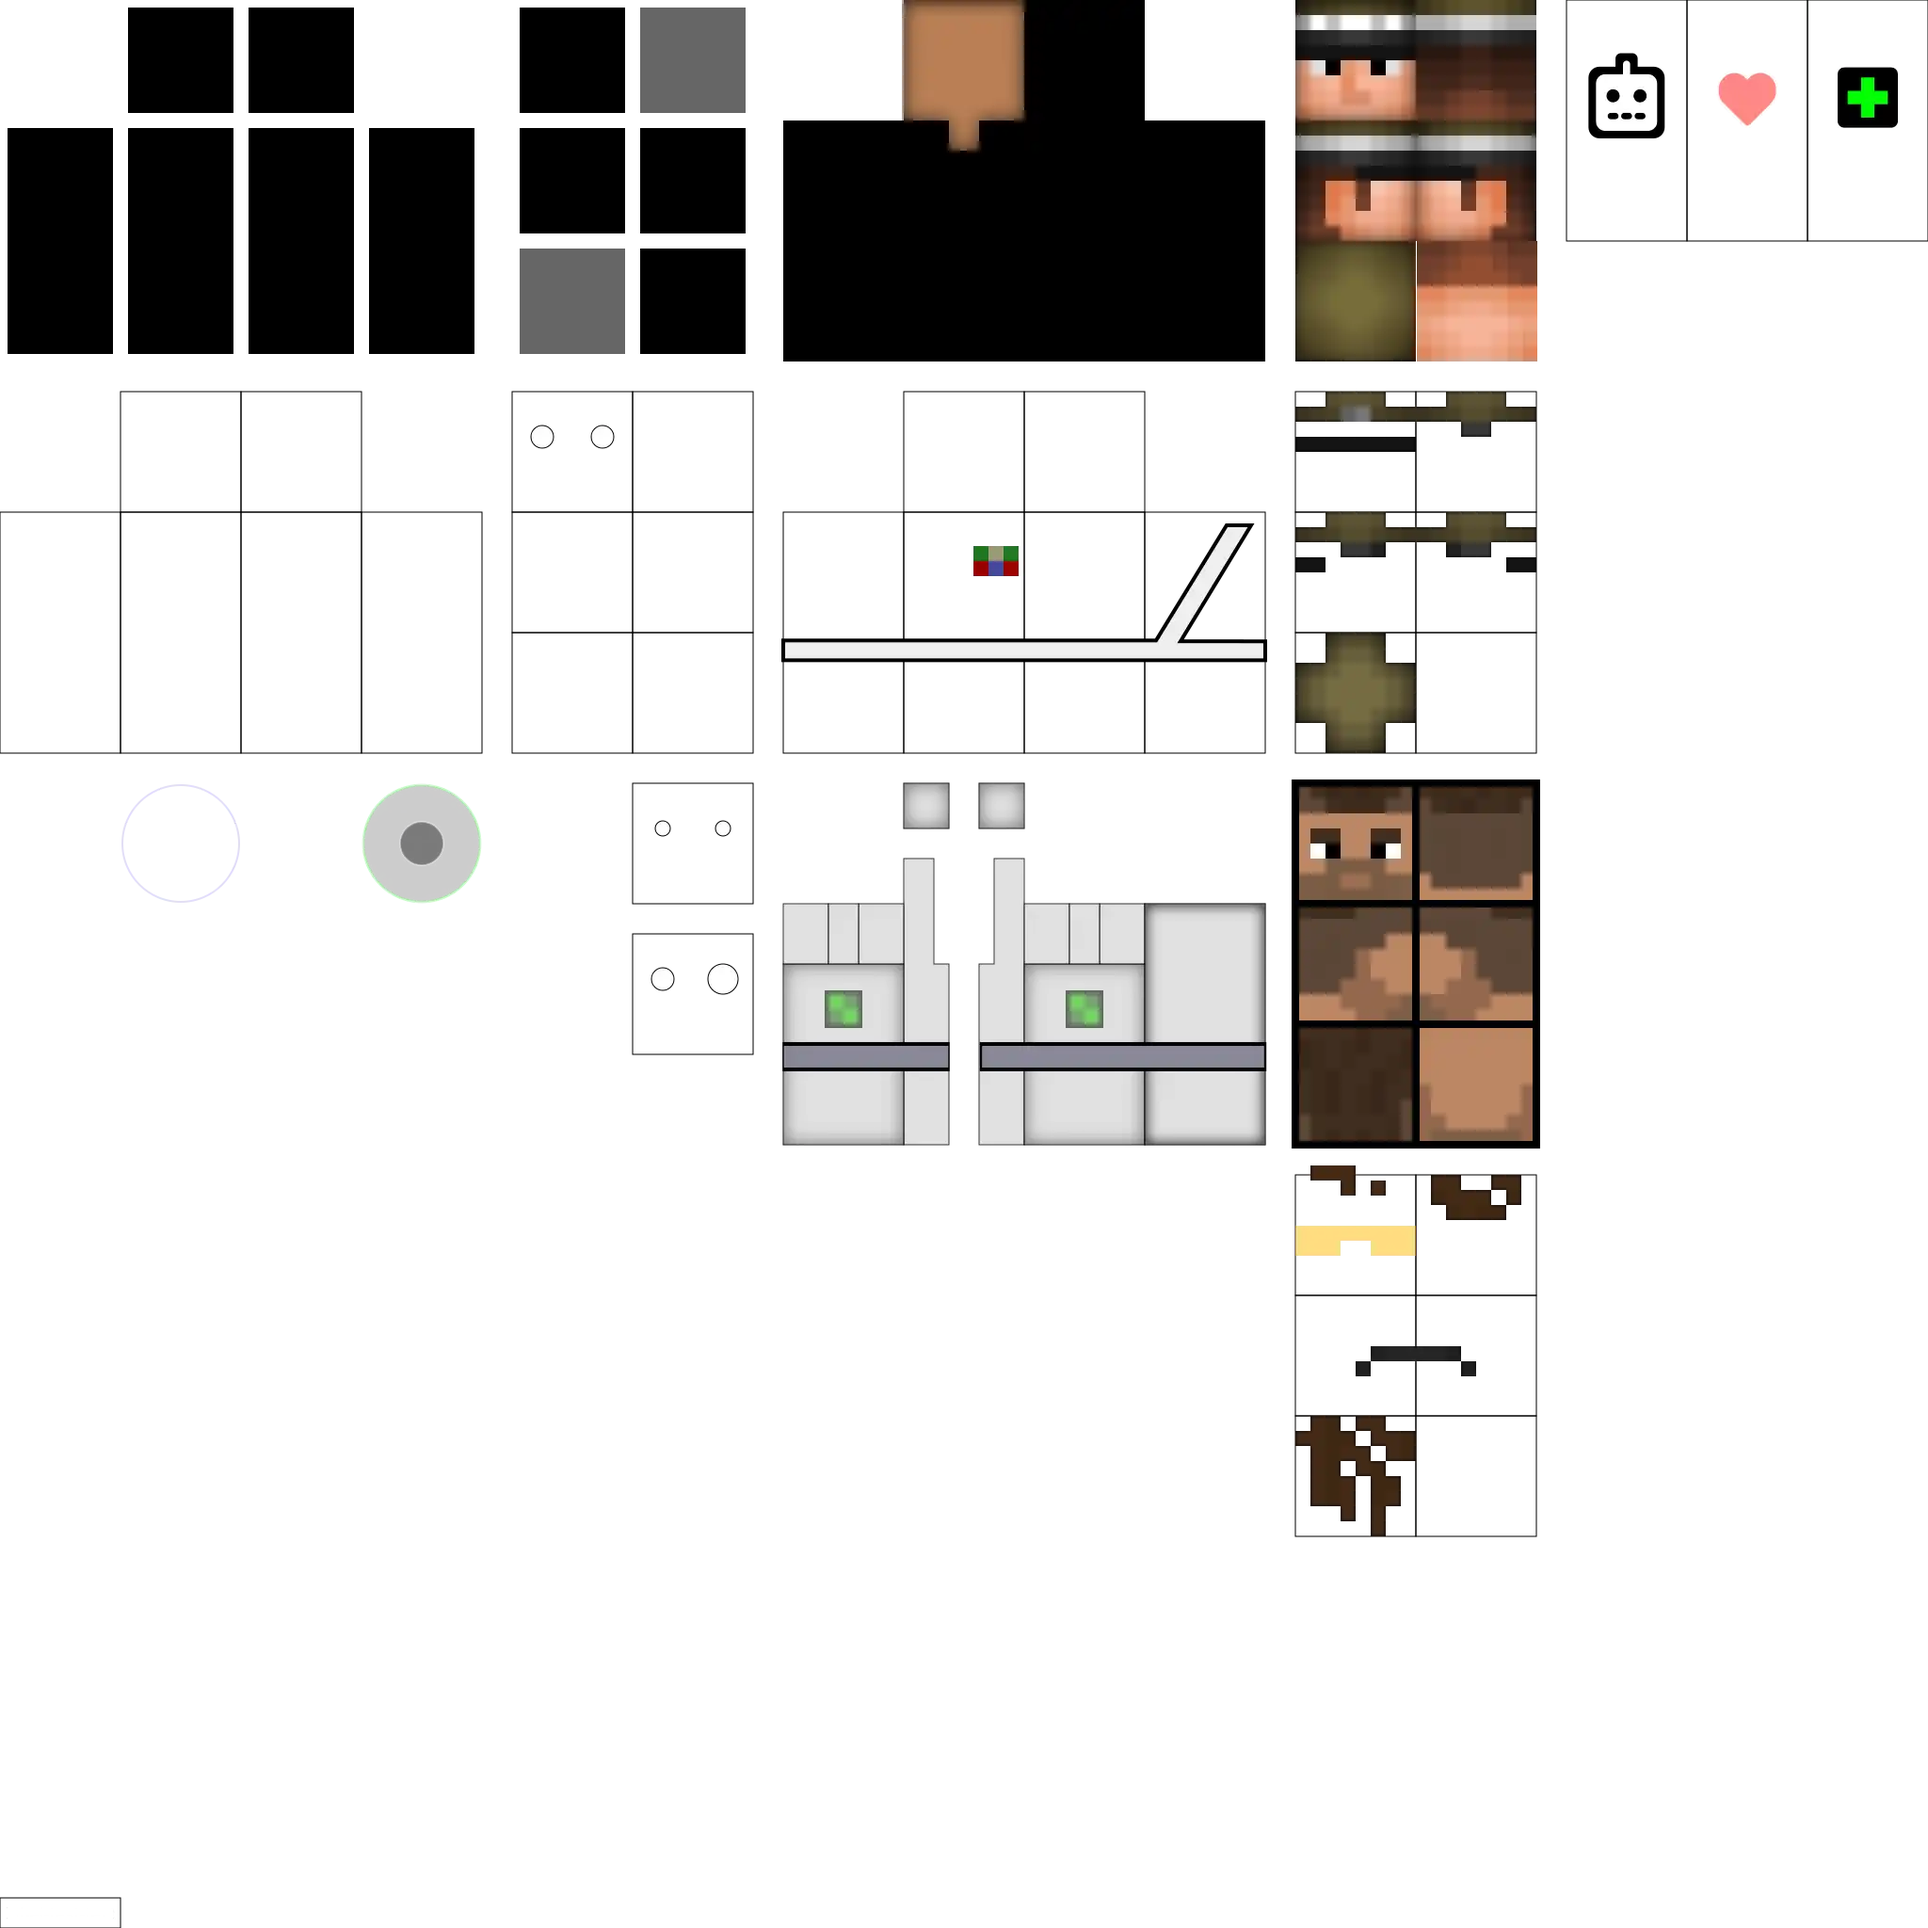
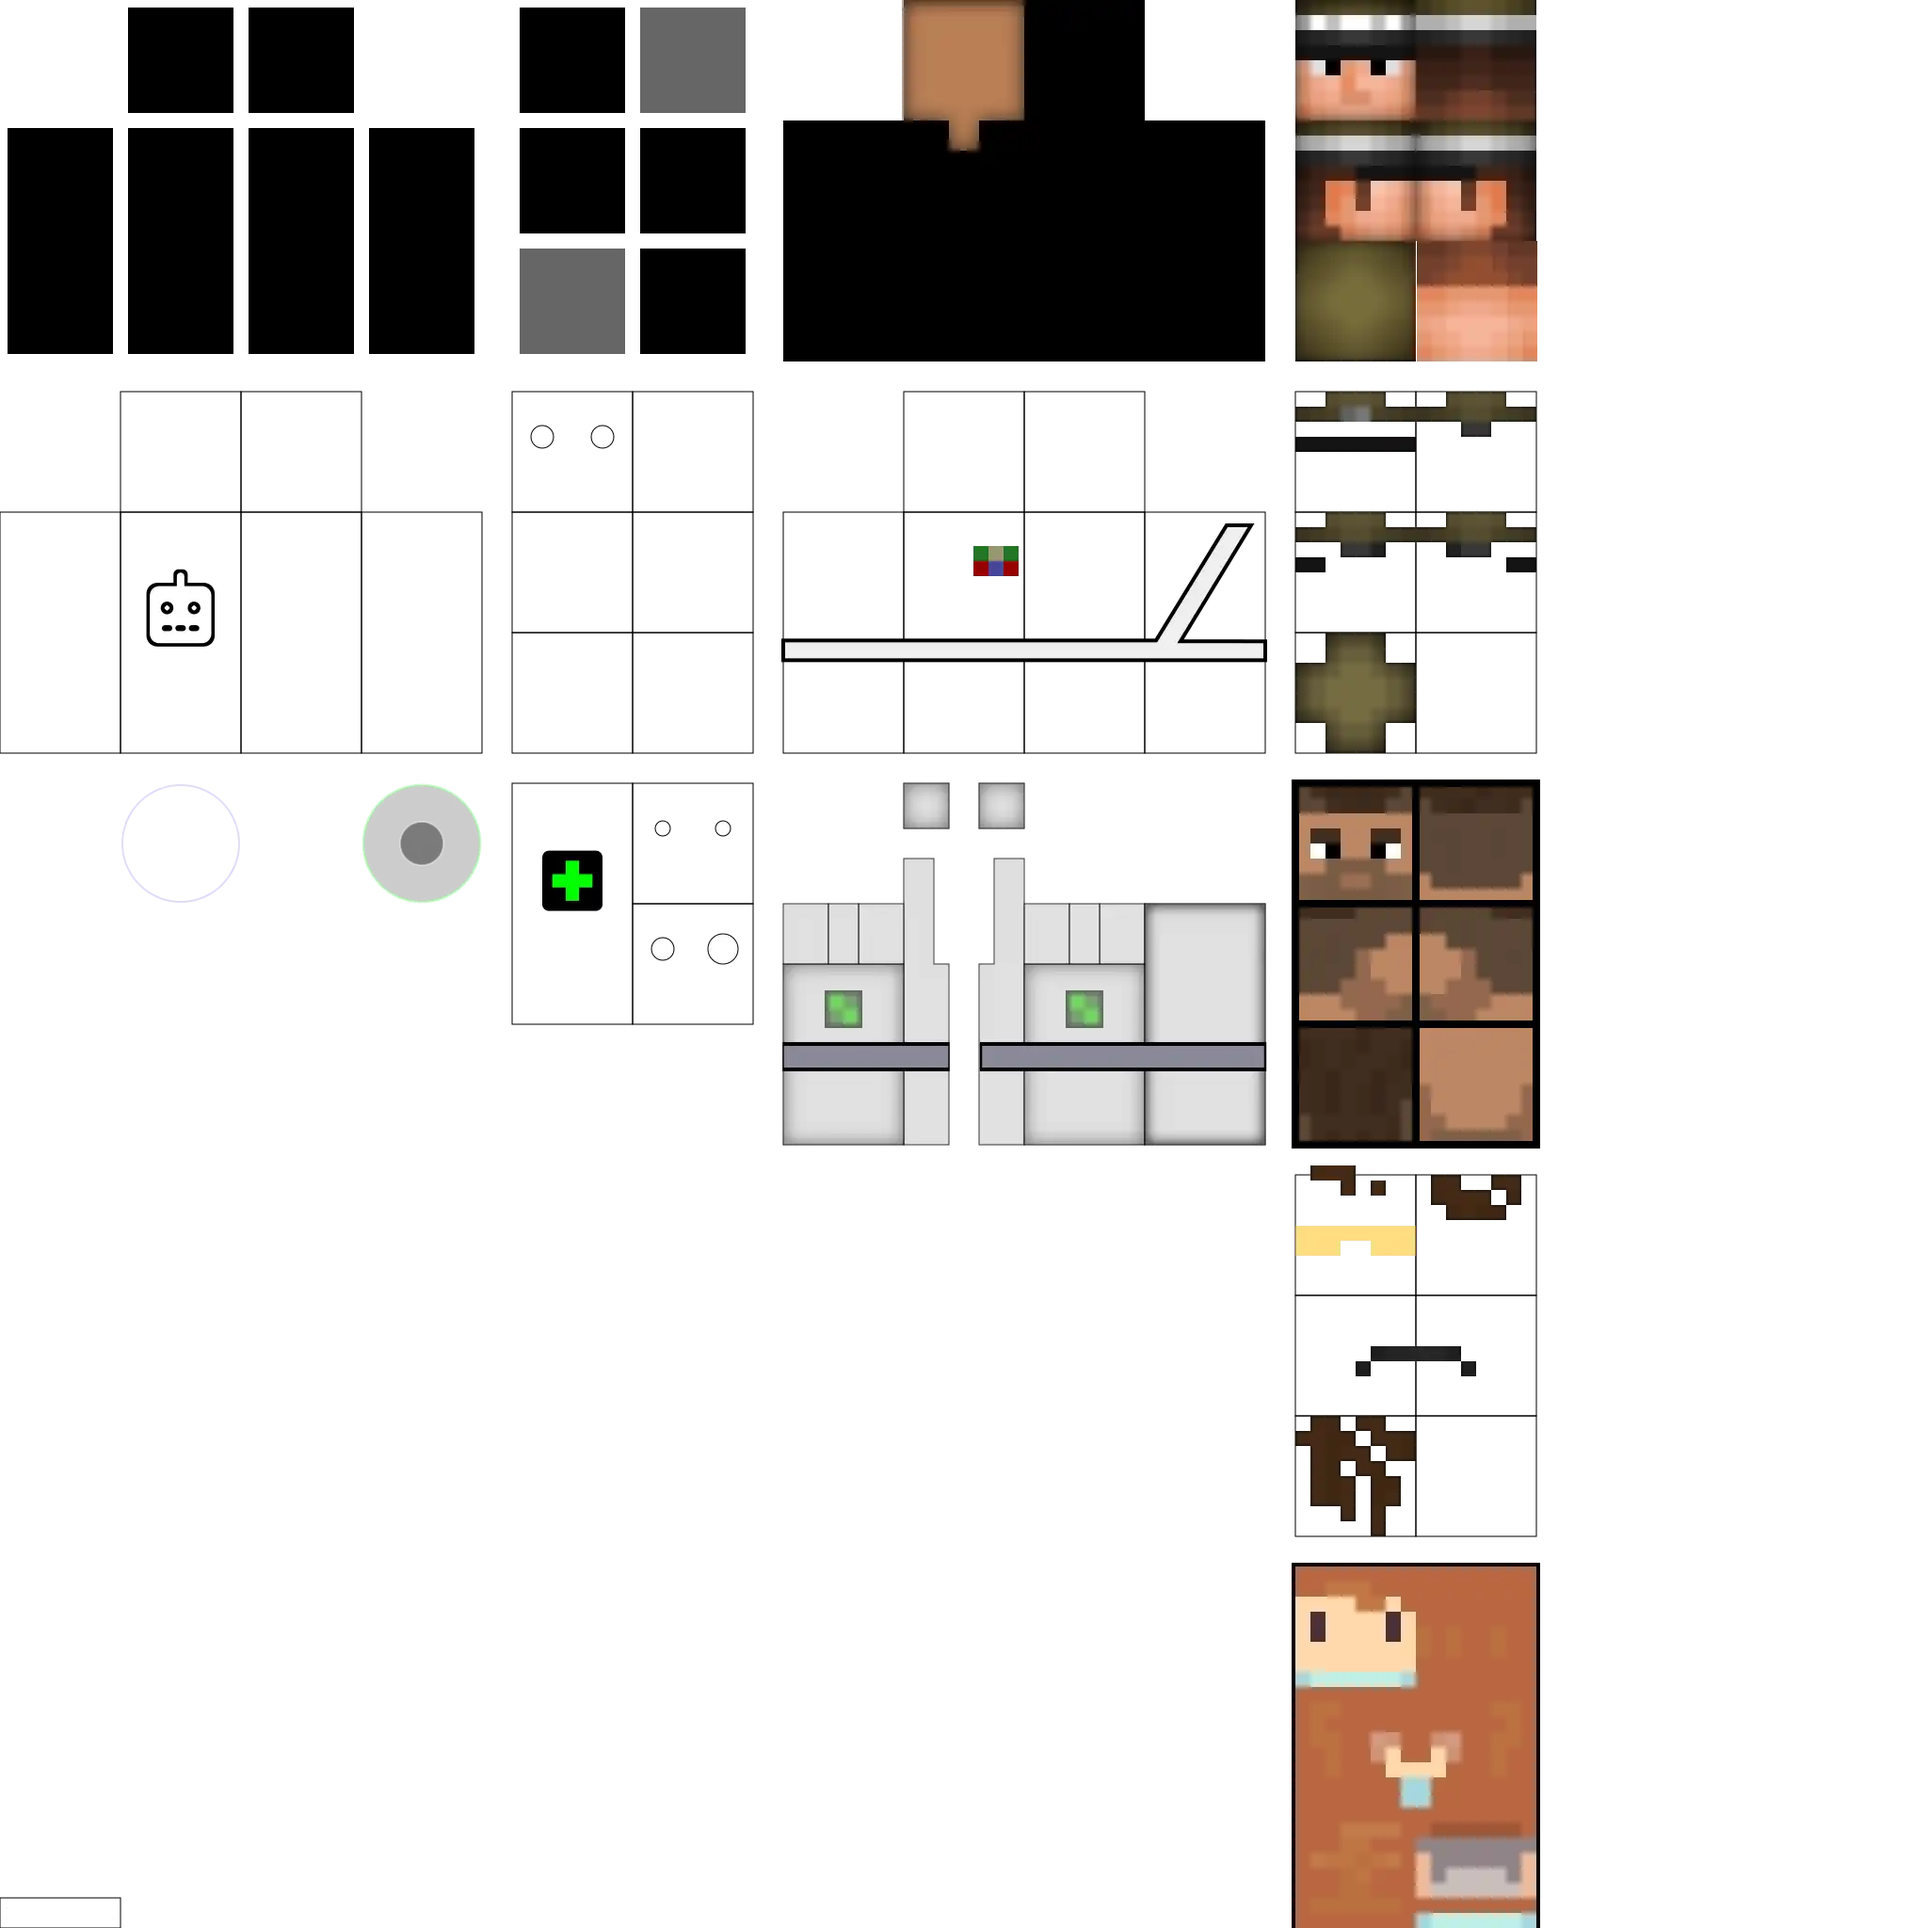
feat: human-0: start medic-0

diff --git a/docs/TODO.md b/docs/TODO.md
@@ -53,7 +53,8 @@
   - `w view.tween '{ fov: 30 }'` was jerky when eps was 1
 
 - 🚧 three more minecraft skin migrations (total 5)
-  - 
+  - 🚧 medic
+    - https://namemc.com/skin/194c3366860674c0
 
 - 🚧 cleanup human-0 skin
   - ✅ Blender: overlay cuboids should be double-sided
@@ -71,7 +72,9 @@
   - ✅ can enable/disable post-processing
   - can animate post-processing i.e. set uniform on Vignette
 
-- consider "camera hot keys" e.g. 1, 2, 3 shows cameras with different constraints
+- consider "hot keys" e.g. 1, 2, 3, also tapable
+  - could use to change camera settings
+  - could use to change input settings e.g. drag select
 - try "turn around before moving" via small acceleration initially
 - profile-1 camera target y should always be 1.5?
 - move "x-ray" into PopUp opts?

diff --git a/README.md b/README.md
@@ -246,13 +246,13 @@ Then we know:
 We'll try to re-map publicly available Minecraft Skins.
 
 - https://namemc.com/minecraft-skins/tag/soldier
-  - https://namemc.com/skin/45461862ef51524e
+  - 🚧 https://namemc.com/skin/45461862ef51524e
 - https://namemc.com/minecraft-skins/tag/scientist
-  - https://namemc.com/skin/7161dce64d6b12be
+  - 🚧 https://namemc.com/skin/7161dce64d6b12be
   - https://namemc.com/skin/3a335a2ec786efdb
 - https://namemc.com/minecraft-skins/tag/general
 - https://namemc.com/minecraft-skins/tag/medic
-  - https://namemc.com/skin/194c3366860674c0
+  - 🚧 https://namemc.com/skin/194c3366860674c0
 - https://namemc.com/minecraft-skins/tag/suit
 - https://namemc.com/minecraft-skins/tag/business
   - https://namemc.com/skin/7065f5c6d21f8df9
